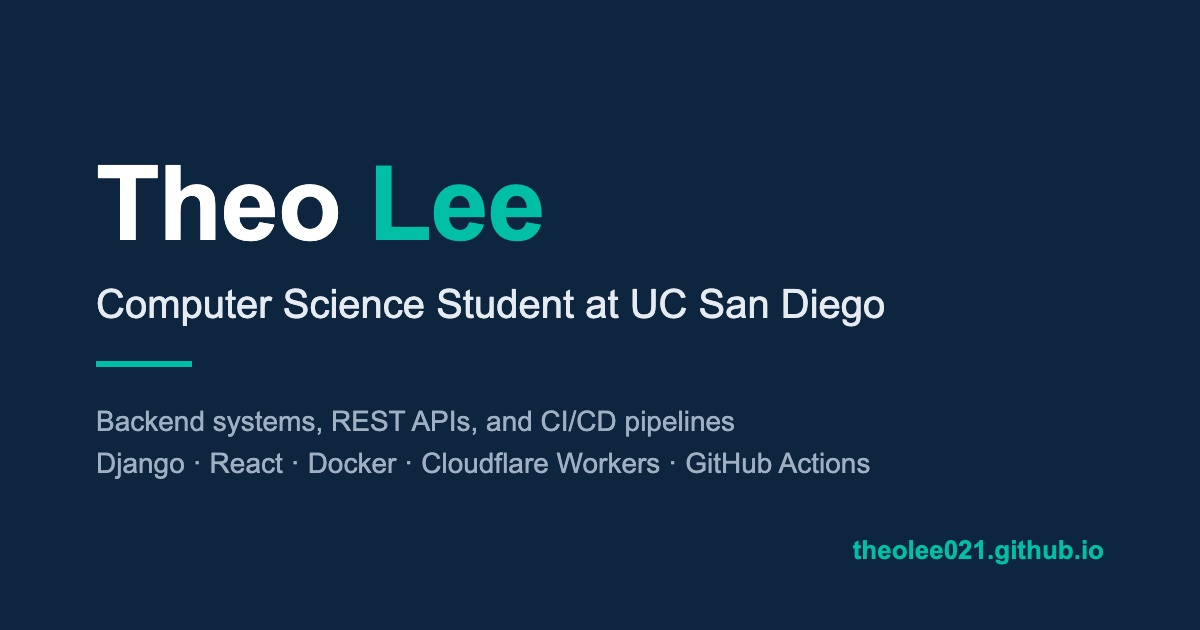
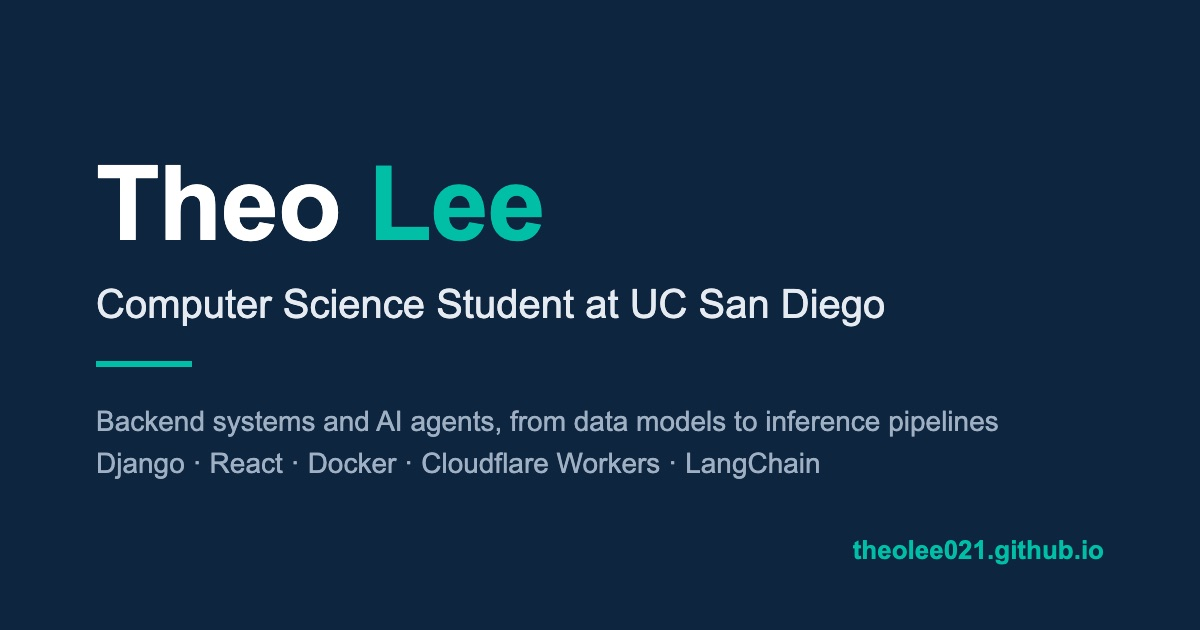
feat: reposition hero and About around backend systems and AI agents

Changed region(s): [[0.2467, 0.6333, 0.8325, 0.6937], [0.555, 0.7238, 0.74, 0.754]]

diff --git a/index.html b/index.html
@@ -4,11 +4,11 @@
   <meta charset="UTF-8">
   <meta name="viewport" content="width=device-width, initial-scale=1.0">
   <title>THEO LEE</title>
-  <meta name="description" content="Theo Lee, a computer science student at UC San Diego working on backend systems, REST APIs, and CI/CD pipelines.">
+  <meta name="description" content="Theo Lee, a computer science student at UC San Diego building backend systems and AI agents, from data models to inference pipelines.">
   <link rel="icon" href="assets/favicon.svg" type="image/svg+xml">
   <meta property="og:type" content="website">
   <meta property="og:title" content="Theo Lee">
-  <meta property="og:description" content="Computer science student at UC San Diego working on backend systems, REST APIs, and CI/CD pipelines.">
+  <meta property="og:description" content="Computer science student at UC San Diego building backend systems and AI agents, from data models to inference pipelines.">
   <meta property="og:url" content="https://theolee021.github.io/">
   <meta property="og:image" content="https://theolee021.github.io/assets/images/og-cover.jpg">
   <meta name="twitter:card" content="summary_large_image">
@@ -48,7 +48,7 @@
     </nav>
     <div class="hero-content">
       <h1>Hello, I'm <span id="typing-text" class="typing-effect"></span></h1>
-      <p>Passionate about software engineering and crafting meaningful solutions.</p>
+      <p>I build backend systems and AI agents, from data models to inference pipelines.</p>
       <a href="#projects" class="cta-button">See My Work</a>
     <!-- Contact links -->
     <div class="contact-links">
@@ -76,9 +76,10 @@
       <h2>About Me</h2>
       <p>
         I'm Theo Lee, a computer science student at UC San Diego, graduating in
-        December 2027. I work mostly on backend systems: data models and REST
-        APIs, containerized environments, and CI/CD pipelines that ship to
-        production.
+        December 2027. I work on backend systems, designing data models and REST
+        APIs and the CI/CD pipelines that ship them. I also spent the past year
+        researching AI agents at UCSD CSE, building multi-agent pipelines that
+        generate 3D material code and measuring what actually makes them better.
       </p>
     </section>
 
@@ -210,7 +211,7 @@
   <script>
     // Sequential typing effect
     const typingElement = document.getElementById('typing-text');
-    const texts = ['Theo Lee', 'Computer Science Student at UCSD'];
+    const texts = ['a CS student at UCSD', 'Theo Lee'];
     let currentTextIndex = 0;
     let currentCharIndex = 0;
     let isDeleting = false;
